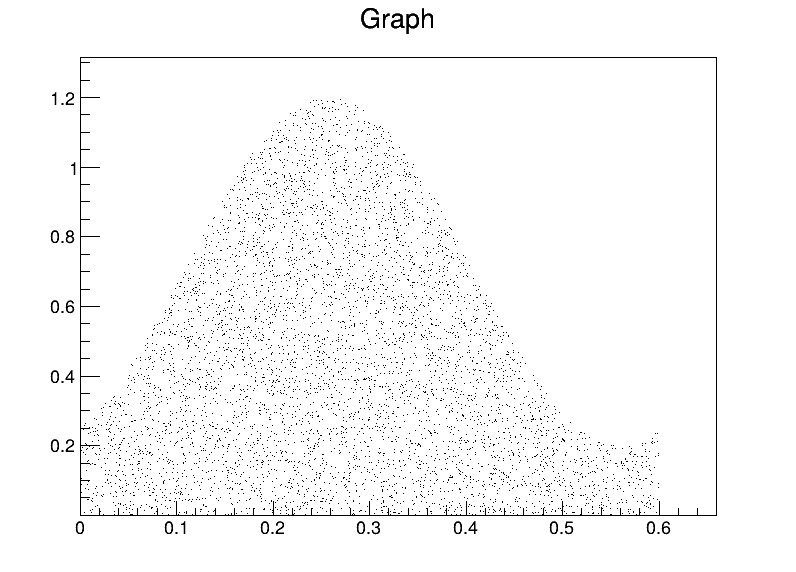
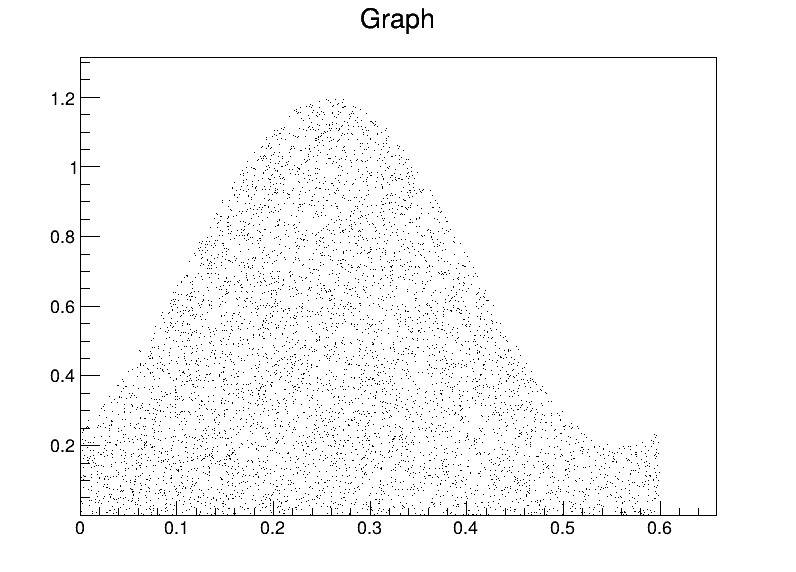
Modifiche

diff --git a/lab1/root_macro.C b/lab1/root_macro.C
@@ -165,17 +165,21 @@ class macro {
 
   void gaussian_parameters(int n_generazioni = 100, int n_eventi = 10000, int bins = 50) {
     std::vector<TH1F*> hist_list;
-    TF1* cos_g = new TF1("Funzione coseno", "[3]*((cos([0]*x + [1]))^2 + [2])", 0., 0.6);
-    double cosInt = cos_g->Integral(0., 0.6);
-    TF1* cosScaled_g = (TF1*)(cos_g->Clone("cosScaled_g"));
-    cosScaled_g->SetParameter(3, 1 / cosInt);
+    // TF1* cos_g = new TF1("Funzione coseno", "[3]*((cos([0]*x + [1]))^2 + [2])", 0., 0.6);
+    // double cosInt = cos_g->Integral(0., 0.6);
+    // TF1* cosScaled_g = (TF1*)(cos_g->Clone("cosScaled_g"));
+    // cosScaled_g->SetParameter(3, 1 / cosInt);
 
     for (int i{0}; i < n_generazioni; ++i) {
     double k = gRandom->Gaus(k_, k_*0.01);
     double phi = gRandom->Gaus(phi_, phi_*0.05);
     double b = gRandom->Gaus(b_, b_*0.01);
     
-    cosScaled_g->SetParameters(k, phi, b);
+    TF1* cos_g = new TF1("Funzione coseno", "[3]*((cos([0]*x + [1]))^2 + [2])", 0., 0.6);
+    cos_g->SetParameters(k, phi, b);
+    double cosInt = cos_g->Integral(0., 0.6);
+    TF1* cosScaled_g = (TF1*)(cos_g->Clone("cosScaled_g"));
+    cosScaled_g->SetParameter(3, 1 / cosInt);
     hist_list.push_back(random_generation_hist(n_eventi, bins, cosScaled_g));
     }
 

diff --git a/lab1/Fit.md b/lab1/Fit.md
@@ -4,14 +4,14 @@
 
 - **Status:** 0
 - **Funzione:** `Funzione coseno`
-- **Chi² / NDF:** 57.8604 / 46
+- **Chi² / NDF:** 68.015 / 46
 
 | Index | Name | Value | Error |
 |:------:|:------|:------:|:------:|
-| 0 | p0 | 5.29729 | 0.087258 |
-| 1 | p1 | 1.76087 | 0.0272912 |
-| 2 | p2 | 0.179112 | 0.0140464 |
-| 3 | p3 | 172.187 | 3.98094 |
+| 0 | p0 | 5.25558 | 0.0901838 |
+| 1 | p1 | 1.79051 | 0.0271779 |
+| 2 | p2 | 0.200021 | 0.0151685 |
+| 3 | p3 | 167.139 | 4.00333 |
 
 ---
 
@@ -19,11 +19,11 @@
 
 - **Status:** 0
 - **Funzione:** `Funzione coseno`
-- **Chi² / NDF:** 64.3964 / 49
+- **Chi² / NDF:** 68.6698 / 49
 
 | Index | Name | Value | Error |
 |:------:|:------|:------:|:------:|
 | 0 | p0 | 5.2 | 0 |
 | 1 | p1 | 1.8 | 0 |
 | 2 | p2 | 0.2 | 0 |
-| 3 | p3 | 164.821 | 2.16522 |
+| 3 | p3 | 165.98 | 2.17281 |
